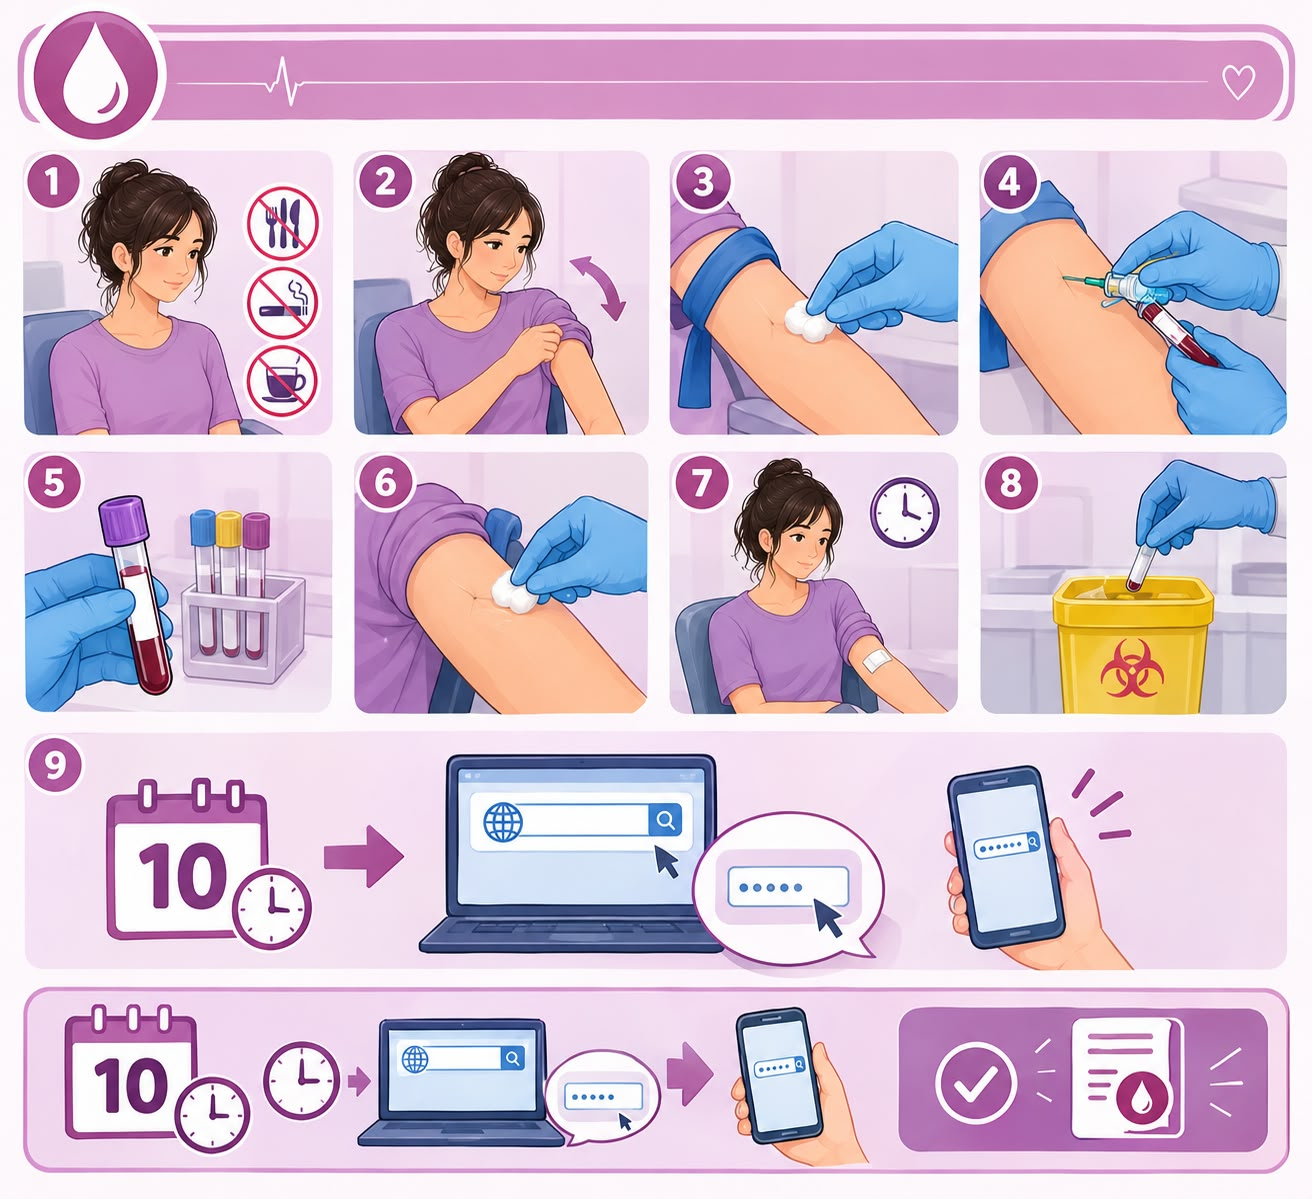
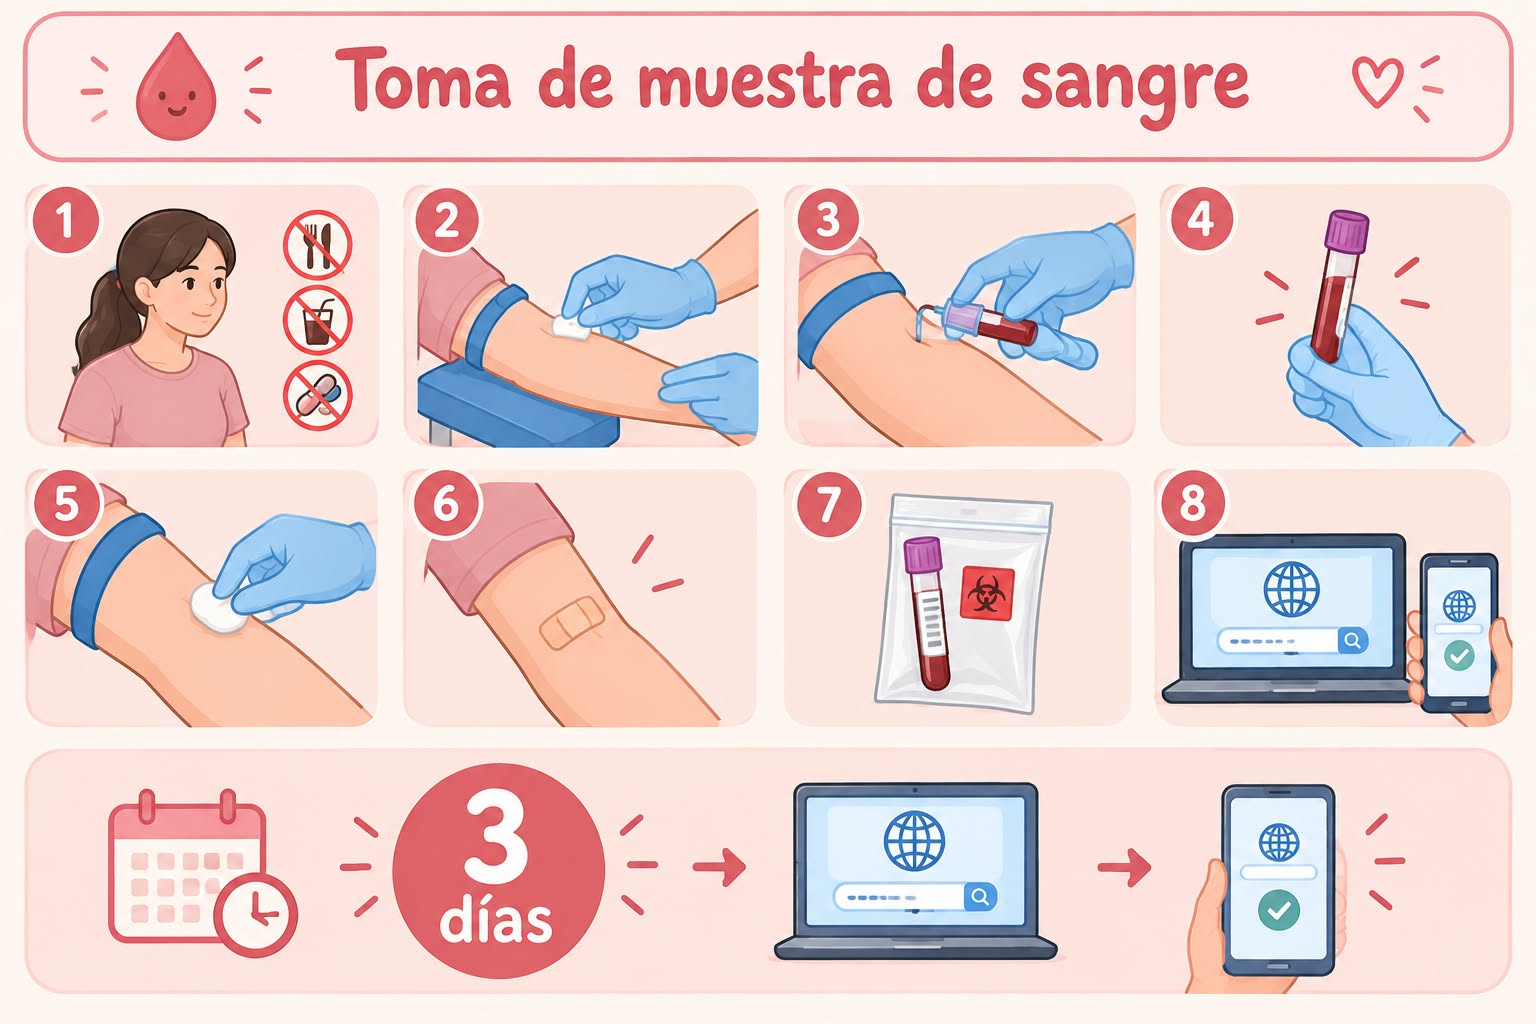
Cambio de imagenes

diff --git a/script.js b/script.js
@@ -61,45 +61,78 @@ function renderExams(exams) {
   exams.forEach(exam => {
     const isSelected = selectedExams.some(e => e.codigo === exam.codigo);
     
+    // DETECCIÓN AUTOMÁTICA DE LA IMAGEN SEGÚN EL TIPO O CÓDIGO
+    let imagenRuta = '';
+    let tituloGuia = exam.nombre;
+    const codigoUpper = (exam.codigo || '').toUpperCase();
+    const tipoLower = (exam.tipo || '').toLowerCase();
+    const nombreLower = (exam.nombre || '').toLowerCase();
+
+    if (codigoUpper.includes('SANGRE') || tipoLower.includes('sangre' ) || nombreLower.includes('sangre') || nombreLower.includes('glicemia') || nombreLower.includes('perfil')) {
+      imagenRuta = 'img/Imagen_sangre.jpeg';
+      tituloGuia = 'Guía Exámenes de Sangre';
+    } else if (codigoUpper.includes('ORINA') || tipoLower.includes('orina') || nombreLower.includes('orina') || nombreLower.includes('urocultivo')) {
+      imagenRuta = 'img/Imagen_orina.jpeg';
+      tituloGuia = 'Guía Muestra de Orina';
+    } else if (codigoUpper.includes('FECA') || codigoUpper.includes('DEPOSICION') || tipoLower.includes('deposicion') || nombreLower.includes('deposicion') || nombreLower.includes('coprocultivo')) {
+      imagenRuta = 'img/Imagen_deposicion.png';
+      tituloGuia = 'Guía Muestra de Deposición';
+    }
+
     const requisitosHTML = Array.isArray(exam.requisitos_rapidos) 
       ? exam.requisitos_rapidos.map(r => `<span class="inline-block bg-slate-100 text-slate-700 text-xs px-2 py-0.5 rounded-md font-medium mr-1 mb-1">${r}</span>`).join('')
       : '';
 
     const card = document.createElement('div');
-    card.className = "bg-white p-4 sm:p-5 rounded-2xl shadow-sm border border-gray-200 transition-all hover:shadow-md";
+    card.className = "bg-white p-4 sm:p-5 rounded-2xl shadow-sm border border-gray-200 transition-all hover:shadow-md flex flex-col justify-between";
     card.innerHTML = `
-      <div class="pb-3 border-b border-gray-100">
-        <span class="text-xs font-bold text-emerald-700 bg-emerald-50 px-2.5 py-1 rounded-md inline-block mb-1">
-          Código: ${exam.codigo}
-        </span>
-        <h3 class="text-base sm:text-xl font-bold text-gray-800">${exam.nombre}</h3>
+      <div>
+        <div class="pb-3 border-b border-gray-100">
+          <div class="flex items-center justify-between gap-2 mb-1">
+            <span class="text-xs font-bold text-emerald-700 bg-emerald-50 px-2.5 py-1 rounded-md inline-block">
+              Código: ${exam.codigo}
+            </span>
+            
+            <!-- Botón automático de la guía visual -->
+            ${imagenRuta ? `
+              <button 
+                type="button"
+                onclick="abrirModalImagen('${imagenRuta}', '${tituloGuia}')"
+                class="bg-emerald-50 hover:bg-emerald-100 text-emerald-700 border border-emerald-200 px-2.5 py-1 rounded-xl text-xs font-semibold transition-colors flex items-center gap-1 shrink-0"
+              >
+                🖼 Ver Guía
+              </button>
+            ` : ''}
+          </div>
+          <h3 class="text-base sm:text-xl font-bold text-gray-800">${exam.nombre}</h3>
+        </div>
+
+        <div class="mt-3 sm:mt-4 space-y-3 text-xs sm:text-sm text-gray-600">
+          <p><strong class="text-gray-800">📋 Tipo de muestra:</strong> ${exam.tipo || 'No especificado'}</p>
+          
+          ${requisitosHTML ? `<div>${requisitosHTML}</div>` : ''}
+
+          <div class="bg-amber-50 border-l-4 border-amber-400 p-3 rounded-r-lg">
+            <p class="font-semibold text-amber-900 text-xs uppercase tracking-wider mb-1">Pasos de preparación:</p>
+            <div class="text-amber-800">${formatPasos(exam.pasos_preparacion)}</div>
+          </div>
+
+          ${exam.importancia ? `<p class="text-xs text-gray-500 italic"><strong class="text-gray-700">💡 Importancia:</strong> ${exam.importancia}</p>` : ''}
+        </div>
       </div>
 
-      <div class="mt-3 sm:mt-4 space-y-3 text-xs sm:text-sm text-gray-600">
-        <p><strong class="text-gray-800">📋 Tipo de muestra:</strong> ${exam.tipo || 'No especificado'}</p>
-        
-        ${requisitosHTML ? `<div>${requisitosHTML}</div>` : ''}
-
-        <div class="bg-amber-50 border-l-4 border-amber-400 p-3 rounded-r-lg">
-          <p class="font-semibold text-amber-900 text-xs uppercase tracking-wider mb-1">Pasos de preparación:</p>
-          <div class="text-amber-800">${formatPasos(exam.pasos_preparacion)}</div>
-        </div>
-
-        ${exam.importancia ? `<p class="text-xs text-gray-500 italic"><strong class="text-gray-700">💡 Importancia:</strong> ${exam.importancia}</p>` : ''}
-
-        <div class="pt-2 sm:flex sm:justify-end border-t border-gray-100 sm:border-0 sm:pt-0">
-          <button 
-            type="button"
-            onclick="toggleSelectExam('${exam.codigo}')"
-            class="w-full sm:w-auto px-4 py-2.5 rounded-xl text-xs sm:text-sm font-semibold transition-colors flex items-center justify-center gap-1.5 shrink-0 ${
-              isSelected 
-                ? 'bg-red-50 text-red-600 hover:bg-red-100 border border-red-200' 
-                : 'bg-emerald-600 text-white hover:bg-emerald-700 shadow-sm'
-            }"
-          >
-            ${isSelected ? '❌ Quitar de mi lista' : '➕ Agregar a mi lista'}
-          </button>
-        </div>
+      <div class="pt-4 mt-4 sm:flex sm:justify-end border-t border-gray-100">
+        <button 
+          type="button"
+          onclick="toggleSelectExam('${exam.codigo}')"
+          class="w-full sm:w-auto px-4 py-2.5 rounded-xl text-xs sm:text-sm font-semibold transition-colors flex items-center justify-center gap-1.5 shrink-0 ${
+            isSelected 
+              ? 'bg-red-50 text-red-600 hover:bg-red-100 border border-red-200' 
+              : 'bg-emerald-600 text-white hover:bg-emerald-700 shadow-sm'
+          }"
+        >
+          ${isSelected ? '❌ Quitar de mi lista' : '➕ Agregar a mi lista'}
+        </button>
       </div>
     `;
     container.appendChild(card);

diff --git a/index.html b/index.html
@@ -237,8 +237,8 @@
       
       <div class="p-5 overflow-y-auto space-y-4 text-sm text-gray-700">
         <!-- Imagen Solita con Lupa Disimulada -->
-        <div class="relative bg-stone-50 p-3 rounded-xl border border-stone-200 flex items-center justify-center group cursor-pointer" onclick="abrirModalImagen('img/Imagen_deposicion.png', 'Guía Muestra de Deposición')">
-          <img src="img/Imagen_deposicion.png" alt="Guía visual de deposición" class="w-full max-h-64 object-contain rounded-lg bg-white p-2 shadow-sm">
+        <div class="relative bg-stone-50 p-3 rounded-xl border border-stone-200 flex items-center justify-center group cursor-pointer" onclick="abrirModalImagen('img/Imagen_deposicion.jpeg', 'Guía Muestra de Deposición')">
+          <img src="img/Imagen_deposicion.jpeg" alt="Guía visual de deposición" class="w-full max-h-64 object-contain rounded-lg bg-white p-2 shadow-sm">
           <div class="absolute bottom-5 right-5 bg-black/60 text-white p-2 rounded-full shadow-md opacity-80 group-hover:opacity-100 transition-opacity flex items-center justify-center">
             🔍
           </div>
